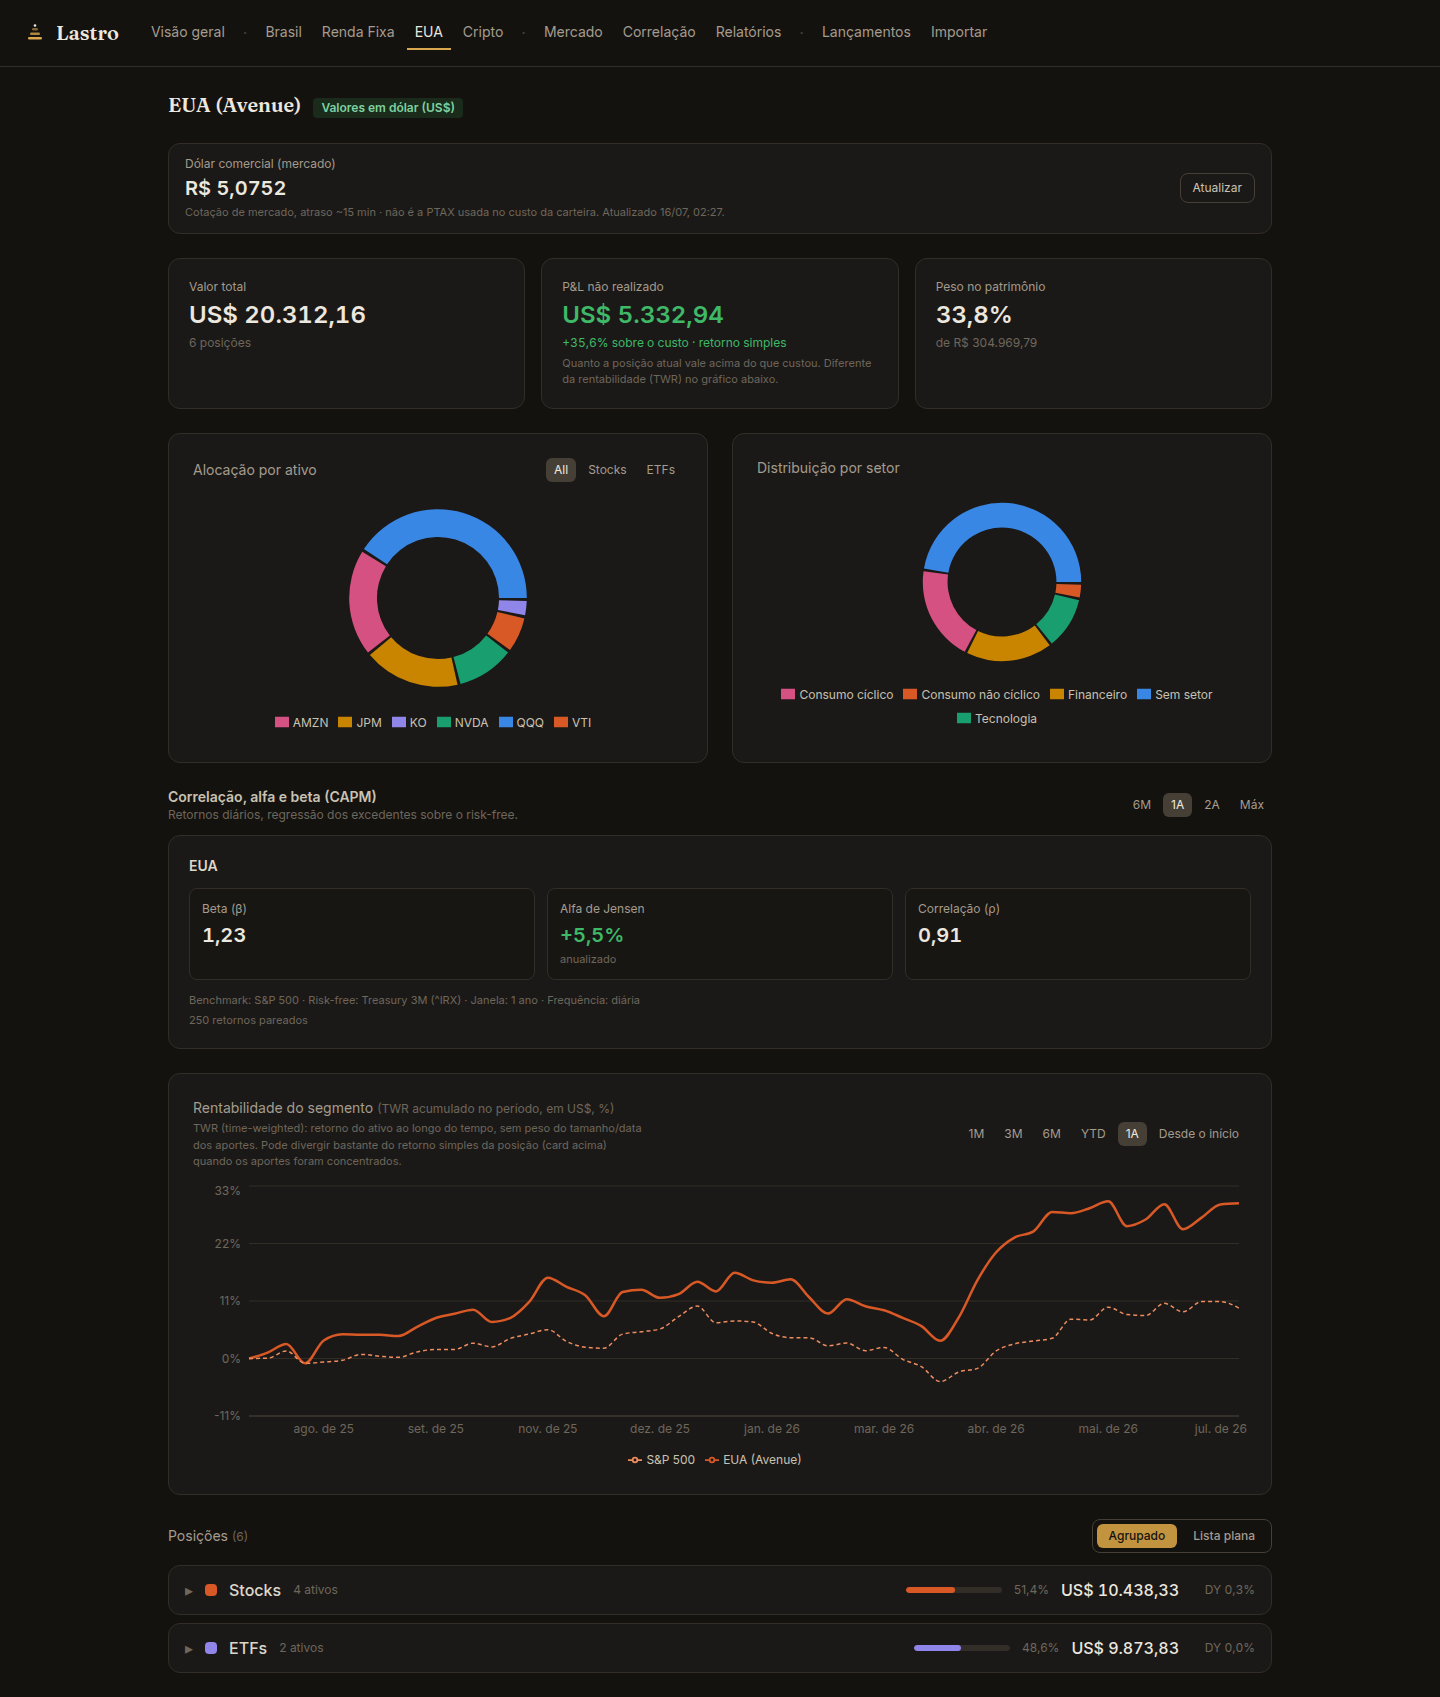
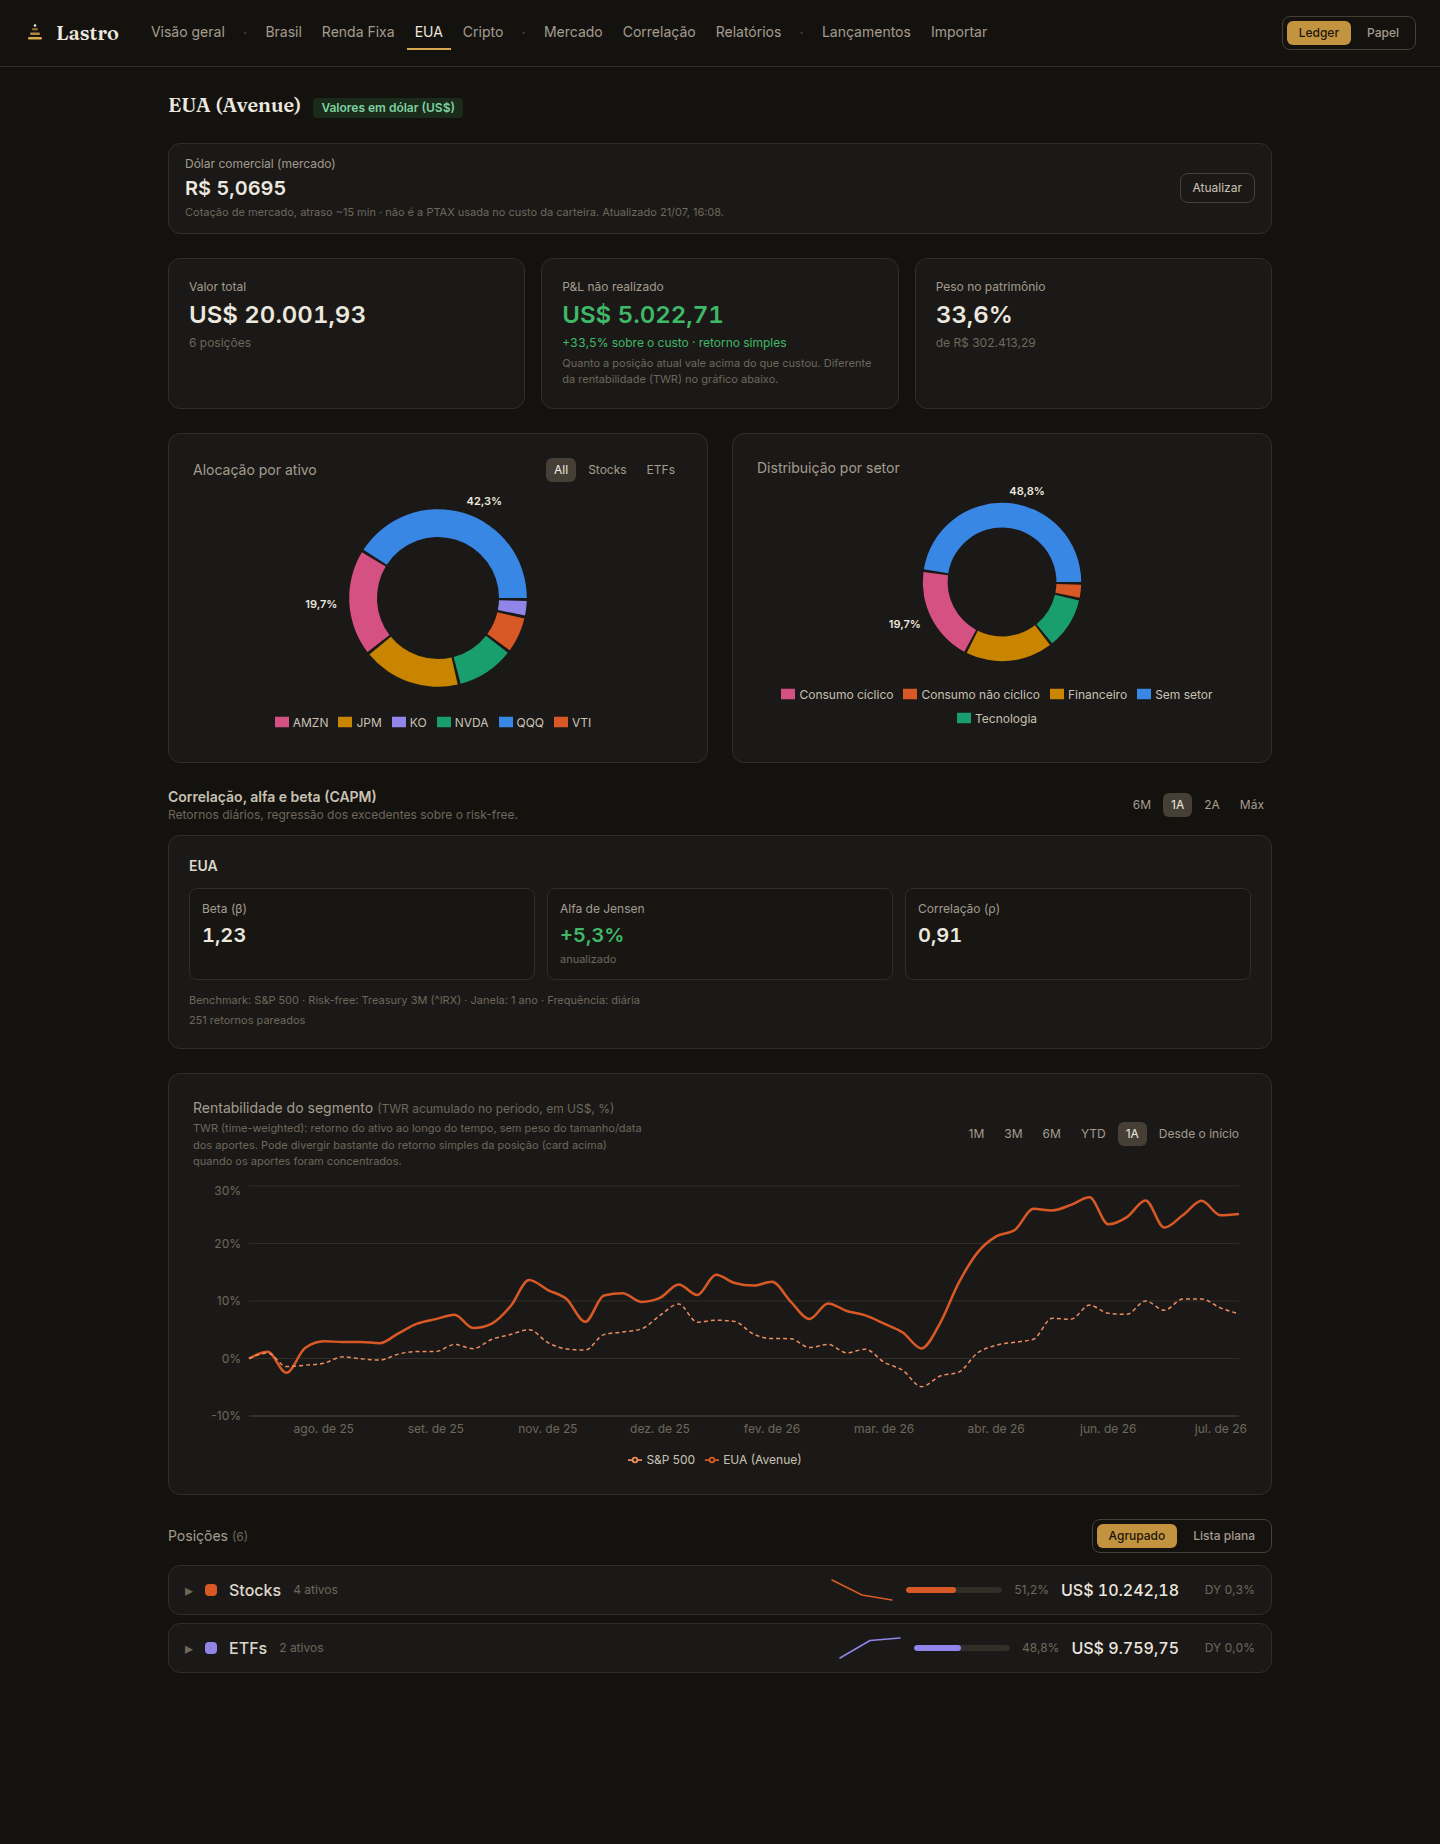
Refresh demo screenshots for the new features, add light-theme shot, README
Regenerated all 9 screenshots from a fresh demo instance (fresh quotes: BR
via COTAHIST, crypto via Binance, US via yfinance, all reachable and
fetched live) — they now show ticker avatars, group sparklines, the new
Ledger/Papel toggle, and correct dual-custody rendering (SOL hot/cold on
the Cripto page) with zero console errors. Added a 10th screenshot for the
light "Papel" theme.

Renamed the synthetic US broker from "Corretora Demo US" to "Broker Demo
International": it shared a 2-word prefix with "Corretora Demo" (the BR
broker), so prettifyInstitution's display-name truncation collapsed both
into the same label in the "Por corretora" donut legend — technically
correct now that the Cell key is fixed, but confusing to look at in a
public screenshot. README updated: new light-theme paragraph, positions-list
features paragraph, and a screenshot for the toggle.

diff --git a/backend/scripts/generate_demo_data.py b/backend/scripts/generate_demo_data.py
@@ -108,7 +108,7 @@ CRYPTO = [
 ]
 
 BR_BROKER = "Corretora Demo"
-US_BROKER = "Corretora Demo US"
+US_BROKER = "Broker Demo International"
 EXCHANGE = "Exchange Demo"
 
 

diff --git a/README.md b/README.md
@@ -50,6 +50,11 @@ ajustes e correções auditáveis.
 
 ![Importar](docs/screenshots/importar.png)
 
+**Modo claro "Papel"** — toggle no header, tokens próprios calibrados para a nova
+superfície (não um espelho mecânico do escuro), paleta de dados revalidada por script.
+
+![Papel](docs/screenshots/papel.png)
+
 ## Decisões técnicas de destaque
 
 **Reconciliador de empréstimo de ativos B3.** O extrato de Movimentação da B3 mistura
@@ -87,15 +92,22 @@ adicionais, auditáveis.
 **Dinheiro nunca é float.** `Decimal` no Python, `NUMERIC` no banco, string no JSON,
 `Intl.NumberFormat('pt-BR')` no frontend.
 
-**Design system próprio, com paleta validada por script.** Identidade "Ledger": dark
-quente (grafite, não o slate azulado default), latão como única cor de marca (botões
-com texto escuro por contraste — 6,8:1), Inter para UI/dados e serifa de display em
-exatamente três papéis (wordmark, número-herói, título de página). Cor é sistêmica
-(`src/lib/colors.ts` é fonte única): a paleta categórica dos gráficos foi **validada
-por script contra daltonismo** (separação protan/deutan ΔE ≥ 8 nos pares adjacentes,
-contraste ≥ 3:1 sobre a superfície) — a ordem das cores é o mecanismo de segurança,
-não estética. Verde/vermelho são reservados à semântica ganho/perda; benchmarks
-tracejados usam a versão clara do matiz da seção que referenciam.
+**Design system próprio, com paleta validada por script — em dois temas.** Identidade
+"Ledger": dark quente (grafite, não o slate azulado default), latão como única cor de
+marca (botões com texto escuro por contraste — 6,8:1), Inter para UI/dados e serifa de
+display em exatamente três papéis (wordmark, número-herói, título de página). Cor é
+sistêmica (`src/lib/colors.ts` é fonte única): a paleta categórica dos gráficos foi
+**validada por script contra daltonismo** (separação protan/deutan ΔE ≥ 8 nos pares
+adjacentes, contraste ≥ 3:1 sobre a superfície) — a ordem das cores é o mecanismo de
+segurança, não estética. Verde/vermelho são reservados à semântica ganho/perda;
+benchmarks tracejados usam a versão clara do matiz da seção que referenciam. O modo
+claro "Papel" (toggle no header) **não é um espelho automático do escuro**: cada token
+de texto/borda foi calibrado contra a nova superfície com a mesma tolerância de
+contraste por papel que o escuro já usava, e a paleta categórica foi revalidada pelo
+mesmo script contra o novo fundo (dois matizes precisaram escurecer para manter
+contraste ≥ 3:1; os outros passaram sem ajuste). Os tokens compilam para CSS custom
+properties reais (Tailwind v4) — a troca de tema não exige nenhuma mudança nos
+componentes que os consomem.
 
 **Dividend yield honesto entre moedas.** DY 12m = renda móvel de 12 meses ÷ valor de
 mercado, **numerador e denominador na moeda nativa da posição** — o percentual vale
@@ -115,6 +127,14 @@ uma regra editorial estrita: sem rótulo de compra/venda, sem "barato/caro" — 
 semântica só nas setas de variação. Cada fonte tem cache próprio e falha de forma
 independente (mostra "—" sem derrubar a seção), com a fonte e a data sempre visíveis
 no rodapé de cada card.
+
+**Lista de posições: mesmo agrupador, dados ao vivo e históricos.** Cada cabeçalho de
+grupo (Ações, FIIs, Renda Fixa por indexador...) mostra uma sparkline da tendência do
+grupo nos últimos meses de snapshot — usando exatamente a mesma função de agrupamento
+da visão ao vivo, aplicada aos dados históricos congelados (a assinatura foi estreitada
+para o subconjunto de campos comum a ambos os formatos, sem duplicar lógica). Avatares
+de ticker coloridos pela classe do ativo, cabeçalho fixo na lista plana e relatório
+mensal com uma frase-resumo gerada dos dados já exibidos completam o conjunto.
 
 **Correlação e CAPM sobre as cotações em cache.** Matriz de Pearson dos retornos
 diários da carteira (com seleção de ativos e um recorte automático das 10 maiores
